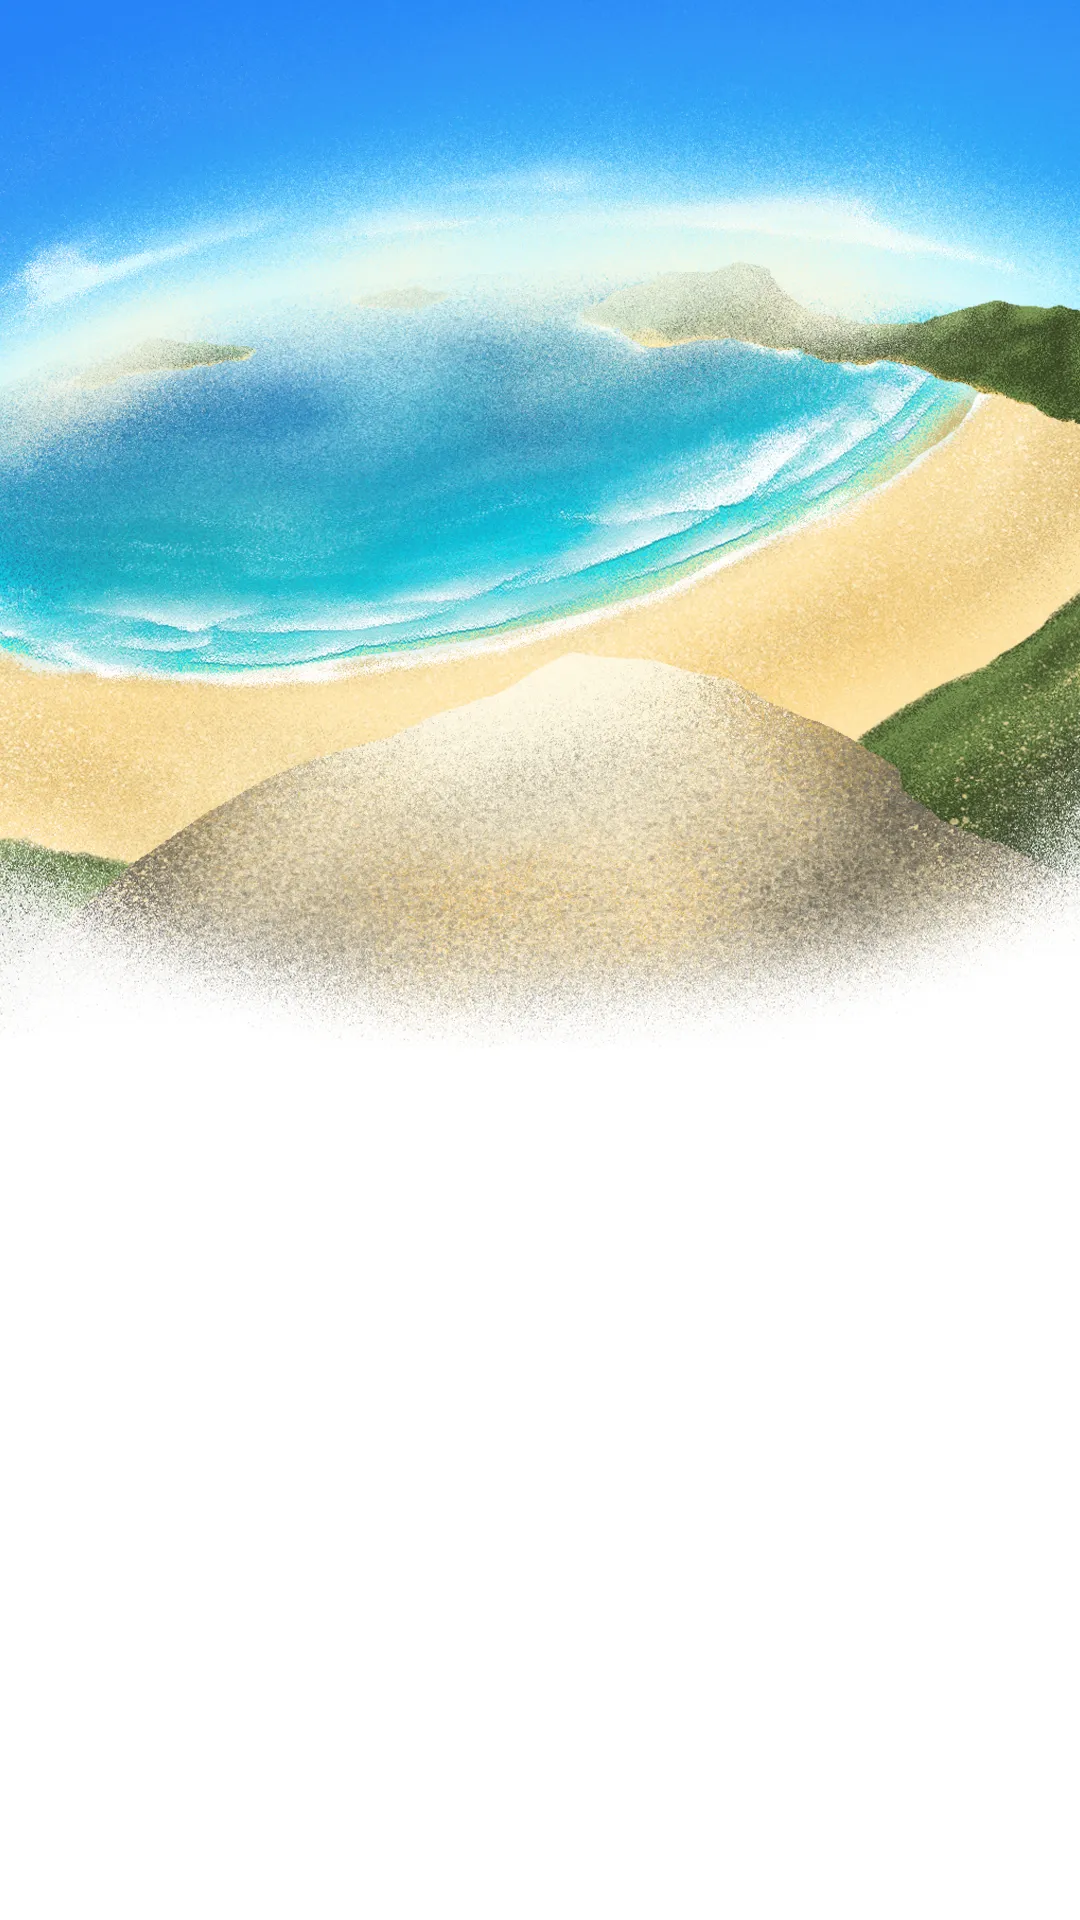
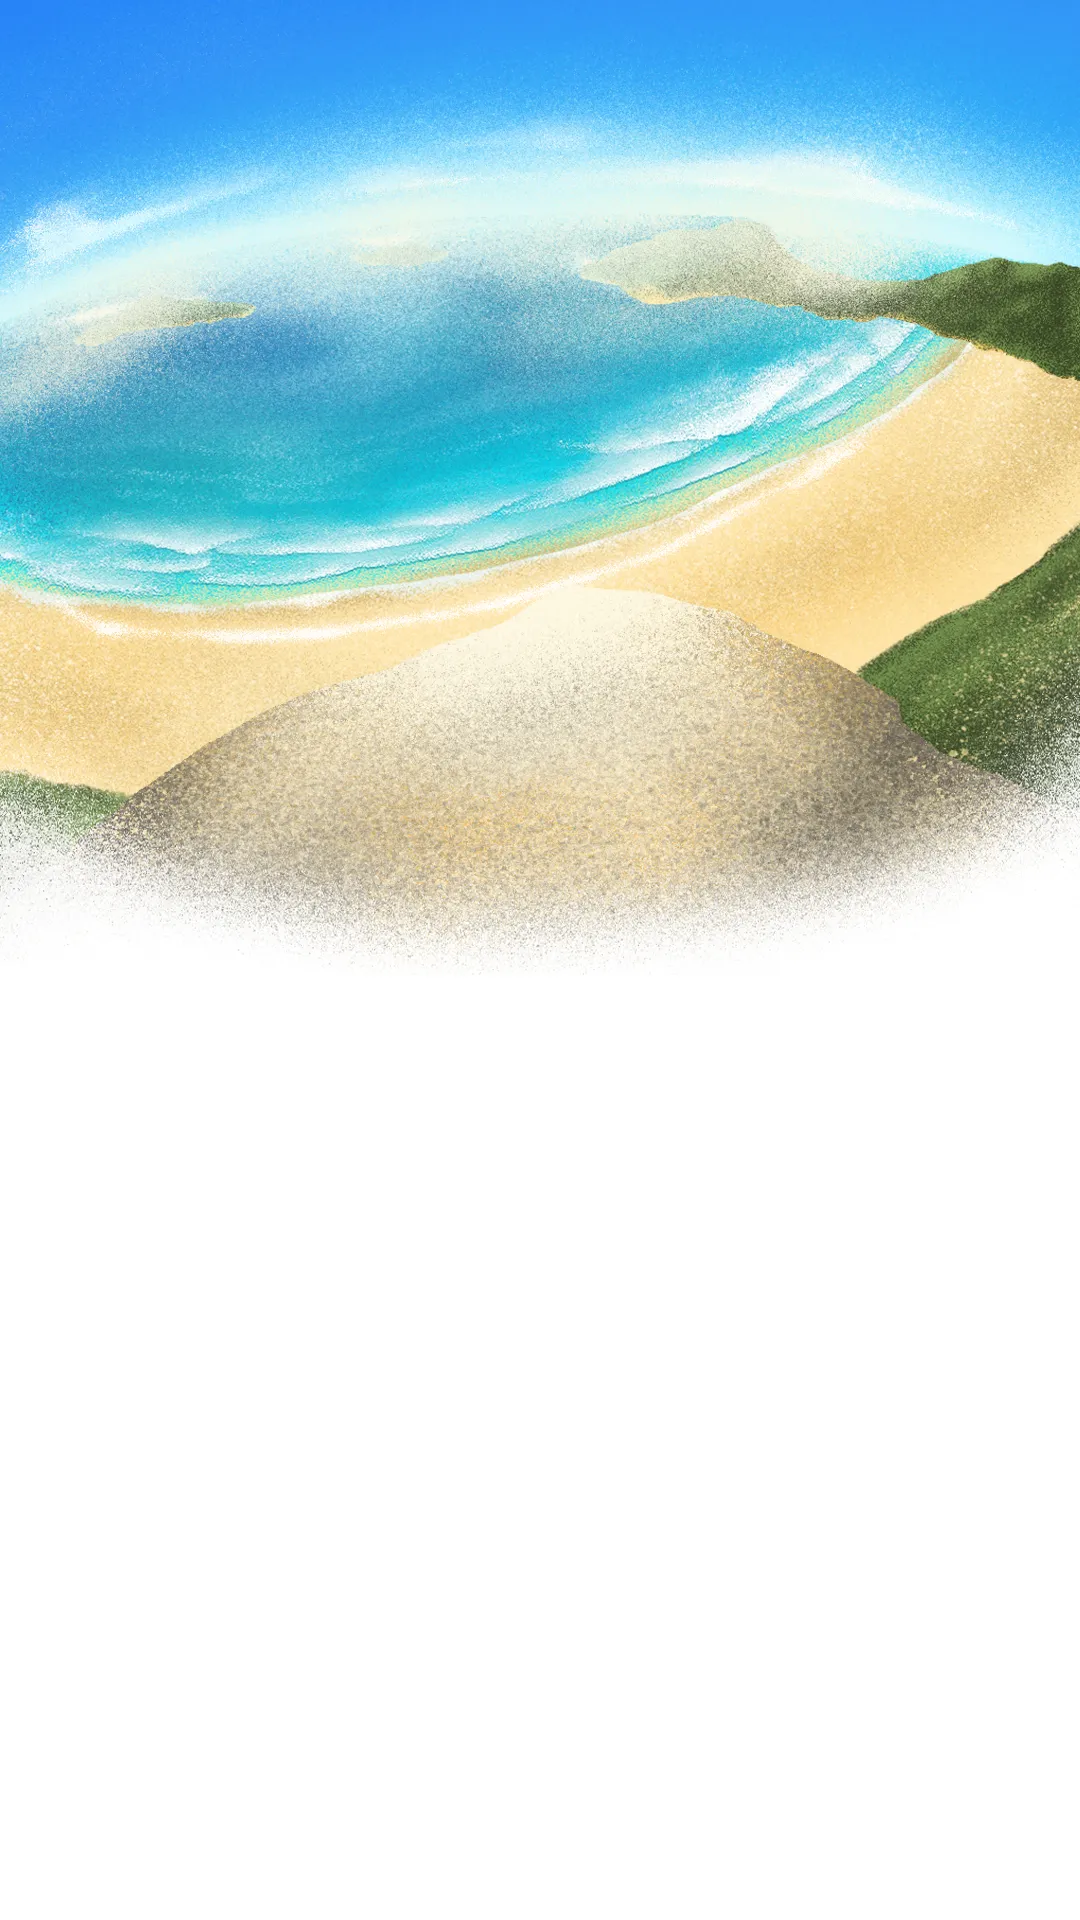
image and seed update
- question 1-9 images are provided.
- seed file update correlated with image path.

diff --git a/psychology-quiz/prisma/seed.ts b/psychology-quiz/prisma/seed.ts
@@ -139,7 +139,7 @@ const questions: Array<{
 }> = [
   {
     text: 'In the first day of your trip, a wombat sneaks into camp and steals your snack. What’s your reaction?',
-    backgroundImage: '',
+    backgroundImage: '/images/backgrounds/question1-bg.png',
     answers: [
       { text: 'Observe its eating habits', riasecType: 'INVESTIGATIVE' },
       { text: 'Check what food is left', riasecType: 'CONVENTIONAL' },
@@ -170,7 +170,7 @@ const questions: Array<{
   },
   {
     text: 'A strong wind blows your hat straight into a muddy pond. What do you do?',
-    backgroundImage: '',
+    backgroundImage: '/images/backgrounds/question4-bg.png',
     answers: [
       { text: 'Ask friends for help', riasecType: 'SOCIAL' },
       { text: 'Study the water currents', riasecType: 'INVESTIGATIVE' },

diff --git a/psychology-quiz/components/QuestionCard.tsx b/psychology-quiz/components/QuestionCard.tsx
@@ -64,7 +64,7 @@ export default function QuestionCard({
                 onClick={() => onSelect(a.riasecType)}
                 className={`
                   relative overflow-hidden
-                  ${isGrid ? 'min-h-[140px] sm:min-h-[156px]' : 'min-h-[56x] sm:min-h-[64px]'}
+                  ${isGrid ? 'min-h-[140px] sm:min-h-[156px]' : 'min-h-[64x] sm:min-h-[64px]'}
                   rounded-2xl sm:rounded-3xl
                   p-4 sm:p-5
                   transition-all duration-300
